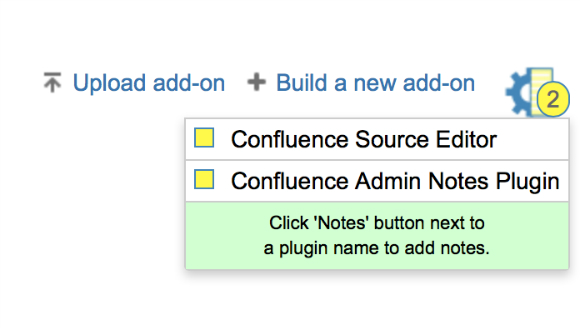
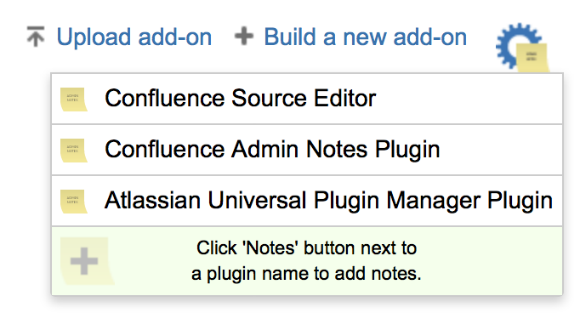
Color fix, screenshot updated

diff --git a/src/main/resources/css/confluence-admin-notes.css b/src/main/resources/css/confluence-admin-notes.css
@@ -81,7 +81,7 @@
     padding: 5px;
     text-align: center;
     font-size: 0.8em;
-    background: rgb(209, 255, 208) url(images/addNotes.png) 5px 50% no-repeat;
+    background: rgb(245, 255, 235) url(images/addNotes.png) 5px 50% no-repeat;
     min-width: 210px;
 }
 
